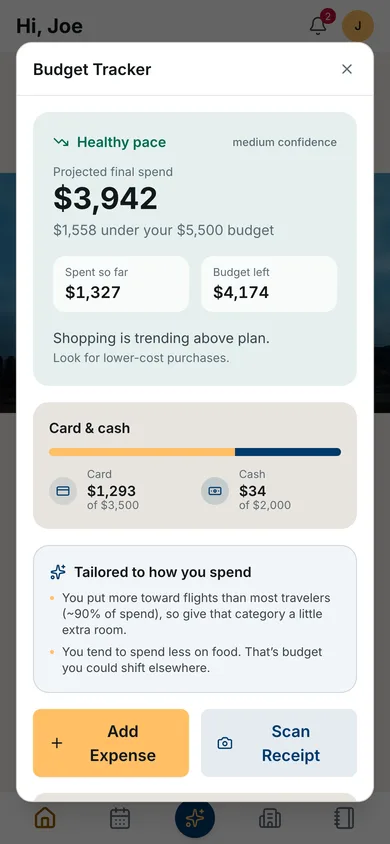
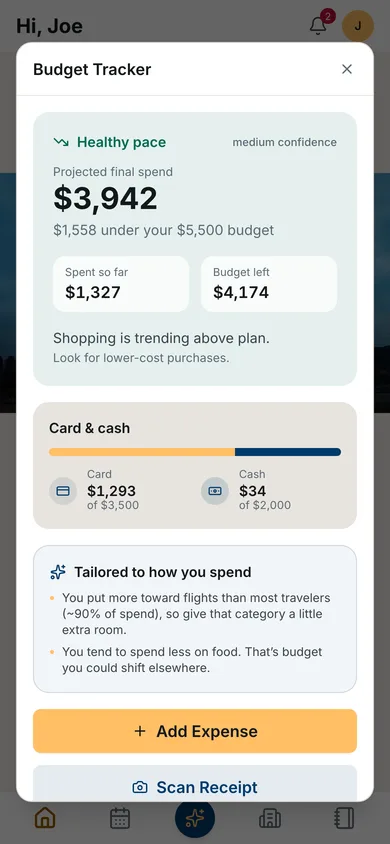
fix(marketing): the desktop flow map has its route again, and phone screens fall back to a phone PNG [JAR-1438]
Fury's gate on ba6697f (1 HIGH, 1 LOW).

- HIGH: the desktop flow-map capture had lost its route line, the dashed
  detours and the street names. It is re-captured from a run whose new route
  check passed (web-app#408): 9,259 route pixels on the desktop canvas, with
  the route, detours and street names checked by eye.
- LOW: both phone images used the desktop PNG as their src while declaring
  390x844. Each screen now imports its phone PNG, which the encoder already
  wrote, so a browser without WebP gets the phone screen in the phone slot.
  appCaptures.ts says which screen each fallback serves.

The same run brings the Budget Tracker's stacked buttons on phones
(web-app#409). Re-encoded files with no visible pixel change stay as they
were.

Changed region(s): [[0.0615, 0.8318, 0.9231, 0.955]]

diff --git a/src/app/data/appCaptures.ts b/src/app/data/appCaptures.ts
@@ -7,7 +7,7 @@
 //   in web-app:  npm run capture && npm run capture:encode
 //   then copy, keeping the names, from capture/dist/ into src/assets/captures/:
 //     desktop/<screen>-light-{720,960,1440}.webp  and  desktop/<screen>-light-720.png
-//     mobile/<screen>-light-{390,780}.webp
+//     mobile/<screen>-light-{390,780}.webp  and  mobile/<screen>-light-390.png
 //
 // IMPORTED, not served from public/: a missing or misnamed file fails the
 // build instead of shipping a broken image, and a refreshed file gets a new
@@ -24,6 +24,7 @@ import dayDetailBadge1440 from '../../assets/captures/desktop/day-detail-badge-l
 import dayDetailBadgePng from '../../assets/captures/desktop/day-detail-badge-light-720.png';
 import dayDetailBadgePhone390 from '../../assets/captures/mobile/day-detail-badge-light-390.webp';
 import dayDetailBadgePhone780 from '../../assets/captures/mobile/day-detail-badge-light-780.webp';
+import dayDetailBadgePhonePng from '../../assets/captures/mobile/day-detail-badge-light-390.png';
 
 import tripPlanDays720 from '../../assets/captures/desktop/trip-plan-days-light-720.webp';
 import tripPlanDays960 from '../../assets/captures/desktop/trip-plan-days-light-960.webp';
@@ -31,6 +32,7 @@ import tripPlanDays1440 from '../../assets/captures/desktop/trip-plan-days-light
 import tripPlanDaysPng from '../../assets/captures/desktop/trip-plan-days-light-720.png';
 import tripPlanDaysPhone390 from '../../assets/captures/mobile/trip-plan-days-light-390.webp';
 import tripPlanDaysPhone780 from '../../assets/captures/mobile/trip-plan-days-light-780.webp';
+import tripPlanDaysPhonePng from '../../assets/captures/mobile/trip-plan-days-light-390.png';
 
 import homeTab720 from '../../assets/captures/desktop/home-tab-light-720.webp';
 import homeTab960 from '../../assets/captures/desktop/home-tab-light-960.webp';
@@ -38,6 +40,7 @@ import homeTab1440 from '../../assets/captures/desktop/home-tab-light-1440.webp'
 import homeTabPng from '../../assets/captures/desktop/home-tab-light-720.png';
 import homeTabPhone390 from '../../assets/captures/mobile/home-tab-light-390.webp';
 import homeTabPhone780 from '../../assets/captures/mobile/home-tab-light-780.webp';
+import homeTabPhonePng from '../../assets/captures/mobile/home-tab-light-390.png';
 
 import budgetTracker720 from '../../assets/captures/desktop/budget-tracker-light-720.webp';
 import budgetTracker960 from '../../assets/captures/desktop/budget-tracker-light-960.webp';
@@ -45,6 +48,7 @@ import budgetTracker1440 from '../../assets/captures/desktop/budget-tracker-ligh
 import budgetTrackerPng from '../../assets/captures/desktop/budget-tracker-light-720.png';
 import budgetTrackerPhone390 from '../../assets/captures/mobile/budget-tracker-light-390.webp';
 import budgetTrackerPhone780 from '../../assets/captures/mobile/budget-tracker-light-780.webp';
+import budgetTrackerPhonePng from '../../assets/captures/mobile/budget-tracker-light-390.png';
 
 import flowMap720 from '../../assets/captures/desktop/flow-map-light-720.webp';
 import flowMap960 from '../../assets/captures/desktop/flow-map-light-960.webp';
@@ -52,6 +56,7 @@ import flowMap1440 from '../../assets/captures/desktop/flow-map-light-1440.webp'
 import flowMapPng from '../../assets/captures/desktop/flow-map-light-720.png';
 import flowMapPhone390 from '../../assets/captures/mobile/flow-map-light-390.webp';
 import flowMapPhone780 from '../../assets/captures/mobile/flow-map-light-780.webp';
+import flowMapPhonePng from '../../assets/captures/mobile/flow-map-light-390.png';
 
 import journalDay720 from '../../assets/captures/desktop/journal-day-light-720.webp';
 import journalDay960 from '../../assets/captures/desktop/journal-day-light-960.webp';
@@ -59,6 +64,7 @@ import journalDay1440 from '../../assets/captures/desktop/journal-day-light-1440
 import journalDayPng from '../../assets/captures/desktop/journal-day-light-720.png';
 import journalDayPhone390 from '../../assets/captures/mobile/journal-day-light-390.webp';
 import journalDayPhone780 from '../../assets/captures/mobile/journal-day-light-780.webp';
+import journalDayPhonePng from '../../assets/captures/mobile/journal-day-light-390.png';
 
 /** One screen, as both device profiles the harness captures. */
 export interface AppCaptureImage {
@@ -66,8 +72,10 @@ export interface AppCaptureImage {
   desktop: string;
   /** srcset of the phone profile (a 390x844 viewport). */
   phone: string;
-  /** A PNG of the desktop profile, for a browser without WebP. */
+  /** A PNG of the desktop profile: the desktop screen's src, for a browser without WebP. */
   fallback: string;
+  /** A PNG of the phone profile, for the phone screen in the same browser. */
+  phoneFallback: string;
 }
 
 /** Each width sits beside the file named for it, so a mismatch shows in review. */
@@ -78,18 +86,21 @@ export const DAY_DETAIL: AppCaptureImage = {
   desktop: srcSet([dayDetailBadge720, 720], [dayDetailBadge960, 960], [dayDetailBadge1440, 1440]),
   phone: srcSet([dayDetailBadgePhone390, 390], [dayDetailBadgePhone780, 780]),
   fallback: dayDetailBadgePng,
+  phoneFallback: dayDetailBadgePhonePng,
 };
 
 export const PACKED_DAY: AppCaptureImage = {
   desktop: srcSet([tripPlanDays720, 720], [tripPlanDays960, 960], [tripPlanDays1440, 1440]),
   phone: srcSet([tripPlanDaysPhone390, 390], [tripPlanDaysPhone780, 780]),
   fallback: tripPlanDaysPng,
+  phoneFallback: tripPlanDaysPhonePng,
 };
 
 export const TRIP_HOME: AppCaptureImage = {
   desktop: srcSet([homeTab720, 720], [homeTab960, 960], [homeTab1440, 1440]),
   phone: srcSet([homeTabPhone390, 390], [homeTabPhone780, 780]),
   fallback: homeTabPng,
+  phoneFallback: homeTabPhonePng,
 };
 
 /** The Budget Tracker panel itself, not the budget card on the trip's home screen. */
@@ -97,12 +108,14 @@ export const BUDGET: AppCaptureImage = {
   desktop: srcSet([budgetTracker720, 720], [budgetTracker960, 960], [budgetTracker1440, 1440]),
   phone: srcSet([budgetTrackerPhone390, 390], [budgetTrackerPhone780, 780]),
   fallback: budgetTrackerPng,
+  phoneFallback: budgetTrackerPhonePng,
 };
 
 export const DAY_ROUTE: AppCaptureImage = {
   desktop: srcSet([flowMap720, 720], [flowMap960, 960], [flowMap1440, 1440]),
   phone: srcSet([flowMapPhone390, 390], [flowMapPhone780, 780]),
   fallback: flowMapPng,
+  phoneFallback: flowMapPhonePng,
 };
 
 /** A journal day with a place card open, not the journal's cover (JAR-1618). */
@@ -110,4 +123,5 @@ export const JOURNAL: AppCaptureImage = {
   desktop: srcSet([journalDay720, 720], [journalDay960, 960], [journalDay1440, 1440]),
   phone: srcSet([journalDayPhone390, 390], [journalDayPhone780, 780]),
   fallback: journalDayPng,
+  phoneFallback: journalDayPhonePng,
 };

diff --git a/src/app/components/DevicePair.tsx b/src/app/components/DevicePair.tsx
@@ -53,7 +53,7 @@ export function DevicePair({ image, alt, ground, sizes }: DevicePairProps) {
       <picture className="sm:hidden">
         <source type="image/webp" srcSet={image.phone} sizes="300px" />
         <img
-          src={image.fallback}
+          src={image.phoneFallback}
           alt={alt}
           width={390}
           height={844}
@@ -82,7 +82,7 @@ export function DevicePair({ image, alt, ground, sizes }: DevicePairProps) {
         <picture>
           <source type="image/webp" srcSet={image.phone} sizes={PHONE_SIZES} />
           <img
-            src={image.fallback}
+            src={image.phoneFallback}
             alt=""
             aria-hidden="true"
             width={390}
